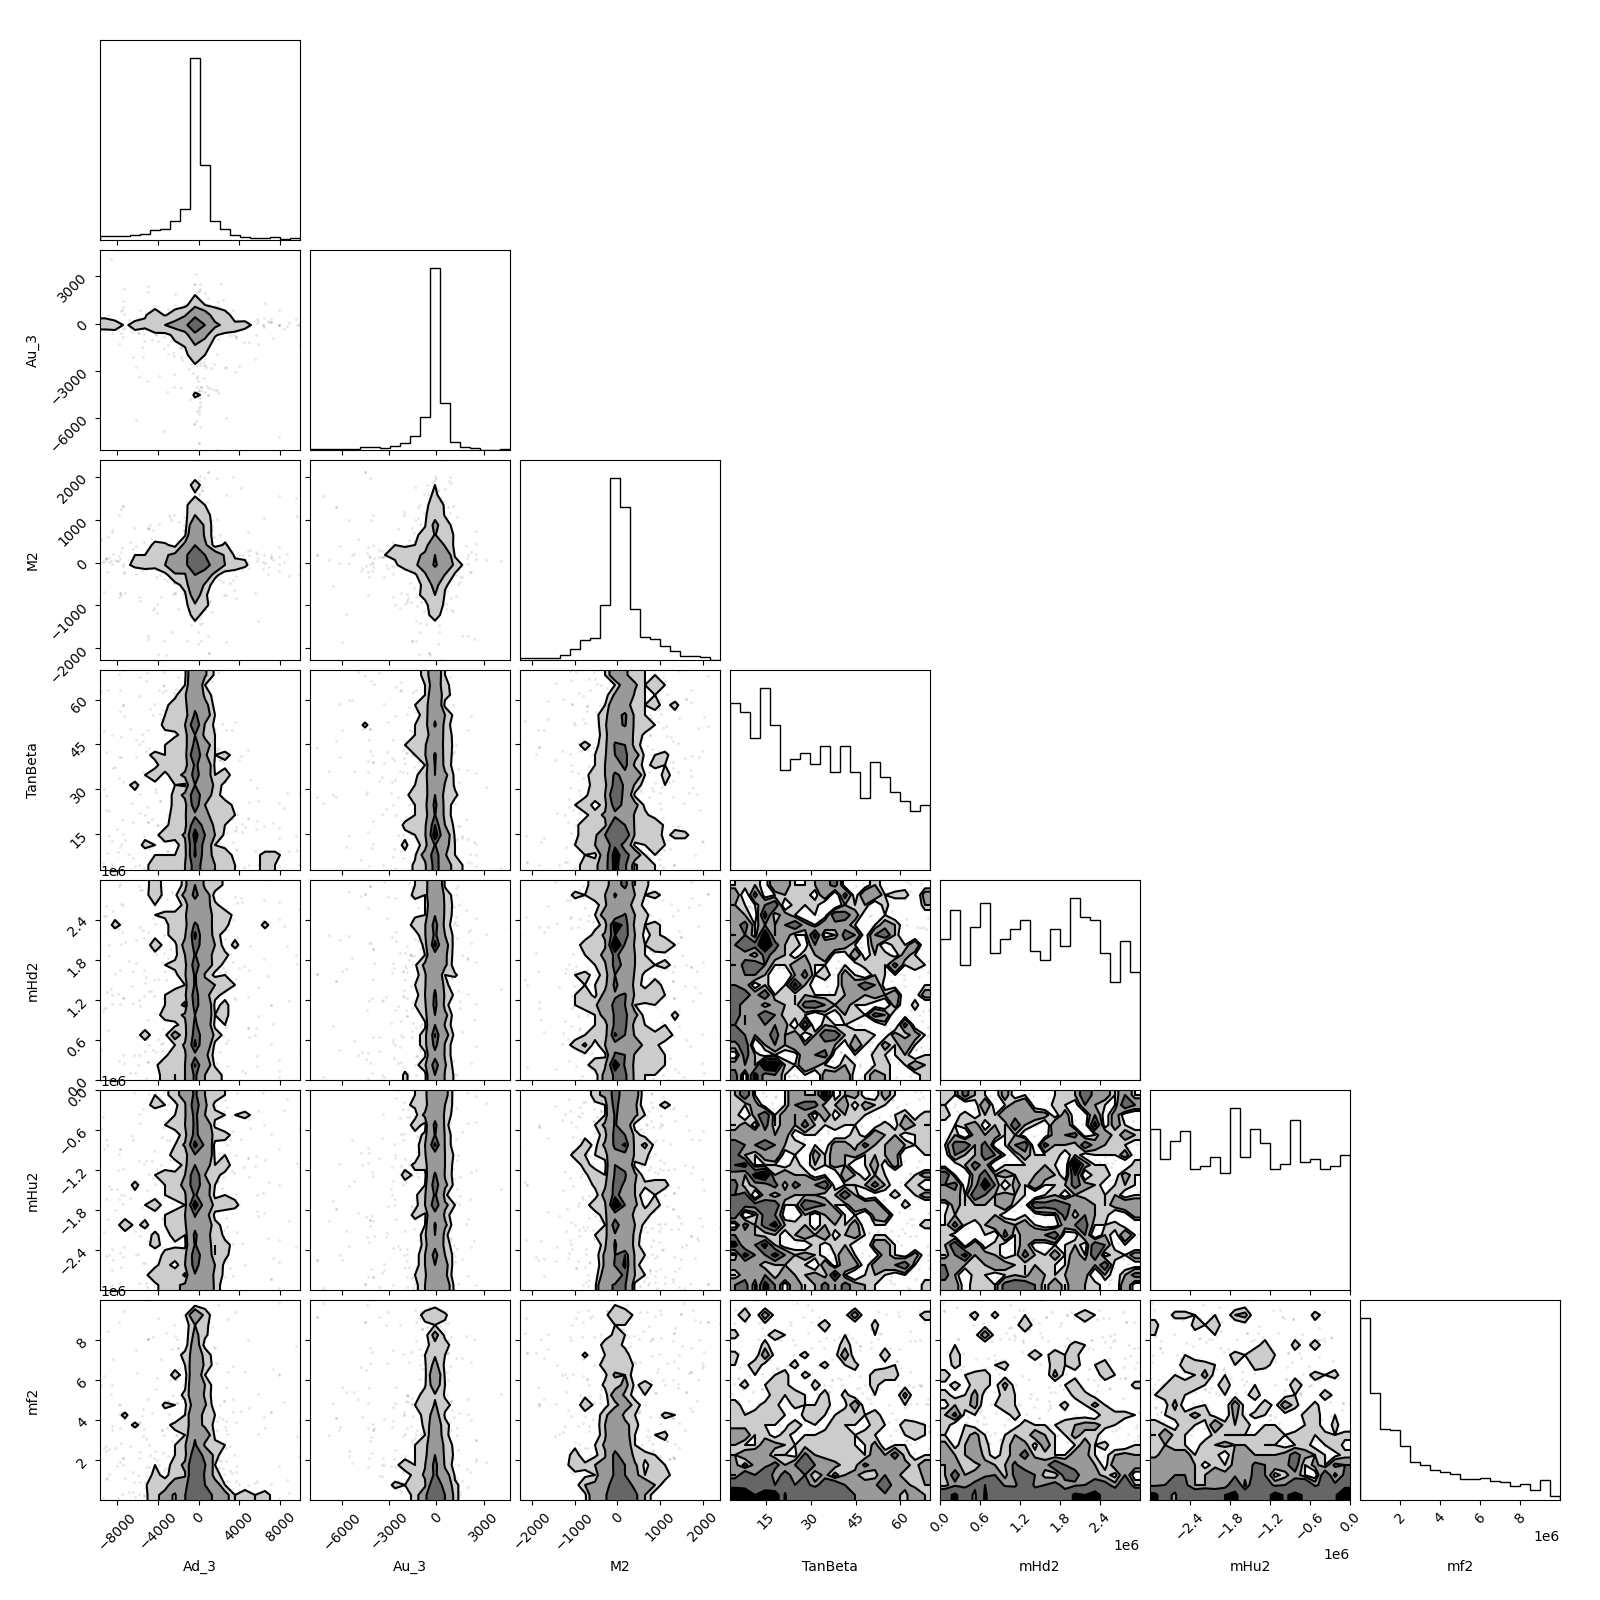
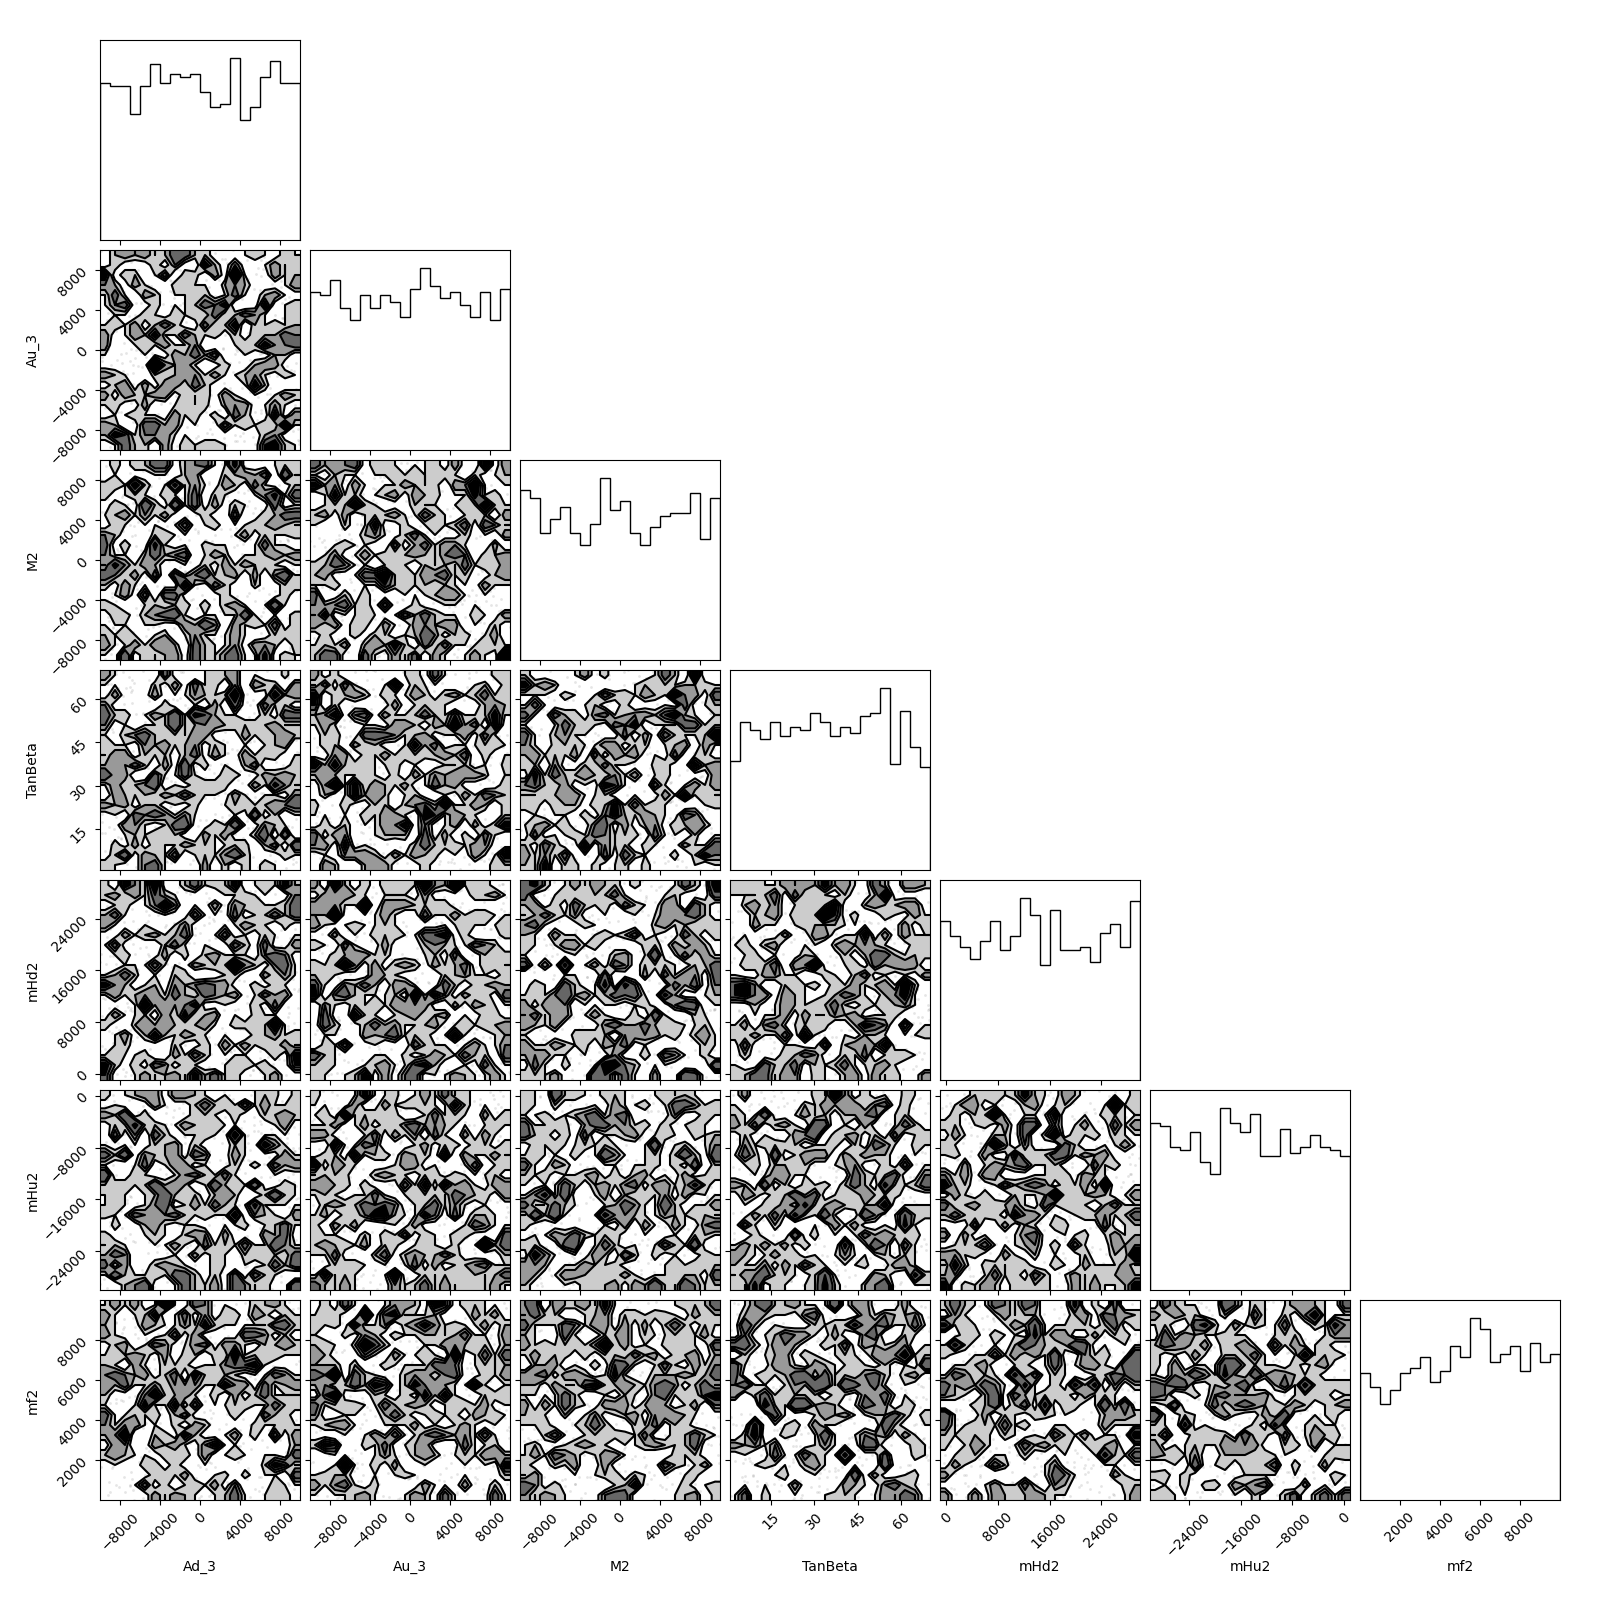
track merging in log files

diff --git a/Util/merge_hdf5.py b/Util/merge_hdf5.py
@@ -1,52 +1,108 @@
+"""Module to merge output files to a single hdf5 file"""
+
 import os
+import sys
 import glob
+import argparse
 import h5py
 import uproot
-import argparse
 import numpy as np
 import vallog as vl
 
 msg = vl.Logger()
+outfile = open("merge.log", "w", encoding="utf-8")
+
+
+def scan_info(scan: dict[str, np.ndarray], file_path: str, file_type: str) -> None:
+    """
+    recieve some inforamation about a scan and keep track of it in the logs
+    """
+    outfile.write(f"found {len(scan)} keys in scan {file_path}\n")
+    # create filters for valid models
+    if file_type == "hdf5":
+        try:
+            mask = scan["LogLike_isvalid"] == 1
+            n_valid_models = sum(mask)
+        except KeyError:
+            outfile.write("WARNING: 'LogLike_isvalid' key not found, no filter for valid models can be applied\n")
+        try:
+            mask = scan["GM2_gmuon"] != -1
+            n_valid_models = sum(mask)
+        except KeyError:
+            outfile.write("WARNING: 'GM2_gmuon' key not found, no filter for valid models can be applied\n")
+    elif file_type == "root":
+        try:
+            mask = scan["GM2_gmuon"] != -1
+            n_valid_models = sum(mask)
+        except KeyError:
+            outfile.write("WARNING: 'GM2_gmuon' key not found, no filter for valid models can be applied\n")
+    else:
+        raise ValueError(f"FileType '{file_type}' is not supported")
+
+    # check if all keys have the same length
+    f = len(scan[next(iter(scan))])
+    if all(len(x) == f for x in scan.values()):
+        if "n_valid_models" in locals():
+            outfile.write(f"\tVALID MODELS: {n_valid_models}/{f}\n")
+    else:
+        outfile.write("WARNING: keys have different lengths\n")
+        if "n_valid_models" in locals():
+            outfile.write(f"\tVALID MODELS: {n_valid_models}/{f}\n")
+        for key, value in scan.items():
+            outfile.write(f"\tKEY: {key} SHAPE: {value.shape}\n")
+
 
 def search_hdf5_files(directory: str) -> list[str]:
     """
     recursivly search the directory for hdf5 files and return the found paths in a list
     """
     msg.heading(f"searching for hdf5 files in '{directory}' ...")
+    outfile.write(f"searching for hdf5 files in '{directory}' ...\n")
     hdf5_files = glob.glob(os.path.join(directory, "**", "*.hdf5"), recursive=True)
     if not hdf5_files:
         msg.log(f"No hdf5 files found in '{directory}'", vl.error)
+        outfile.write(f"No hdf5 files found in '{directory}'\n")
         exit(1)
     for file in hdf5_files:
         msg.log(f"found: {file}", vl.info)
+        outfile.write(f"found: {file}\n")
+    outfile.write(f"found {len(hdf5_files)} hdf5 files\n\n")
     return hdf5_files
+
 
 def search_root_files(directory: str) -> list[str]:
     """
     recursivly search the directory for root files and return the found paths in a list
     """
     msg.heading(f"searching for root files in '{directory}' ...")
+    outfile.write(f"searching for root files in '{directory}' ...\n")
     root_files = glob.glob(os.path.join(directory, "**", "*.root"), recursive=True)
     if not root_files:
         msg.log(f"No root files found in '{directory}'", vl.error)
+        outfile.write(f"No root files found in '{directory}'\n")
         exit(1)
     for file in root_files:
         msg.log(f"found: {file}", vl.info)
+        outfile.write(f"found: {file}\n")
+    outfile.write(f"found {len(root_files)} hdf5 files\n\n")
     return root_files
+
 
 def read_hdf5_file(file_path: str) -> dict:
     """
     extract the data from the specified hdf5 file and return it as a dictionary
     """
     msg.heading(f"reading: {file_path}")
-    with h5py.File(file_path, 'r') as file:
-        dataset = file['MSSM']
+    with h5py.File(file_path, "r") as file:
+        dataset = file["MSSM"]
         if isinstance(dataset, h5py.Group):
-            data_dict = {key: np.array(dataset[key]) for key in dataset.keys()}
+            data_dict = {key: np.array(dset) for key, dset in dataset.items()}
         else:
             raise TypeError(f"expected type 'h5py.Group' but got {type(dataset)}")
     msg.log(f"read {len(data_dict)} keys from '{file_path}'", vl.info)
+    scan_info(data_dict, file_path, "hdf5")
     return data_dict
+
 
 def read_root_file(file_path: str) -> dict:
     """
@@ -56,18 +112,18 @@ def read_root_file(file_path: str) -> dict:
     dataset = uproot.open(file_path + ":susy")
     data_dict = {key: np.array(dataset[key]) for key in dataset.keys()}
     msg.log(f"read {len(data_dict)} keys from '{file_path}'", vl.info)
+    scan_info(data_dict, file_path, "root")
     return data_dict
-
 
 
 def merge_datasets(datasets: list[dict]) -> dict:
     """
     merge multiple datasets into one dictionary
     """
-    msg.heading(f"merging datasets ...")
+    msg.heading("merging datasets ...")
     merged_data = {}
     for dataset in datasets:
-        msg.log(f"extracting data...", vl.info)
+        msg.log("extracting data...", vl.info)
         for key, value in dataset.items():
             if key not in merged_data:
                 merged_data[key] = []
@@ -77,22 +133,25 @@ def merge_datasets(datasets: list[dict]) -> dict:
     for key in merged_data:
         merged_data[key] = np.concatenate(merged_data[key], axis=0)
     msg.log(f"merged {len(datasets)} datasets", vl.info)
+    scan_info(merged_data, "merged_dataset", "hdf5")
     return merged_data
 
-def save_dataset_to_hdf5(dataset: dict, output_path:str) -> None:
+
+def save_dataset_to_hdf5(dataset: dict, output_path: str) -> None:
     """
     save the merged dataset to a hdf5 file
     """
     msg.heading(f"saving merged dataset to '{output_path}'")
-    with h5py.File(output_path, 'w') as file:
-        group = file.create_group('MSSM')
+    with h5py.File(output_path, "w") as file:
+        group = file.create_group("MSSM")
         for key, value in dataset.items():
             group.create_dataset(key, data=value)
     return
 
 
-
-def main(directory: str, output_path: str, file_type: str):
+def main(directory: str, output_filename: str, file_type: str):
+    """Entry point"""
+    outfile_path = directory + "/merge.log"
     if file_type == "hdf5":
         hdf5_files = search_hdf5_files(directory)
         datasets = [read_hdf5_file(file) for file in hdf5_files]
@@ -103,15 +162,23 @@ def main(directory: str, output_path: str, file_type: str):
         raise ValueError(f"FileType '{file_type}' is not supported")
 
     merged_data = merge_datasets(datasets)
-    save_dataset_to_hdf5(merged_data, output_path)
-
-
+    save_dataset_to_hdf5(merged_data, directory + "/" + output_filename)
+    outfile.close()
+    os.rename("./merge.log", outfile_path)
 
 
 if __name__ == "__main__":
     parser = argparse.ArgumentParser()
-    parser.add_argument('-d', '--directory', type=str, default='.', help="directory to search for hdf5 files")
-    parser.add_argument('-o', '--output', type=str, default='merged_dataset.hdf5', help="output path for the merged dataset")
-    parser.add_argument("-f", "--file_type", type=str, help="select the file type of the files you want to merge. Supported file types are ['.hdf5', '.root']")
+    parser.add_argument("-d", "--directory", type=str, default=".", help="directory to search for files")
+    parser.add_argument(
+        "-o", "--output", type=str, default="merged_dataset.hdf5", help="output path for the merged dataset"
+    )
+    parser.add_argument(
+        "-f",
+        "--file_type",
+        type=str,
+        help="select the file type of the files you want to merge. Supported file types are ['.hdf5', '.root']",
+    )
     args = parser.parse_args()
+
     main(args.directory, args.output, args.file_type)
